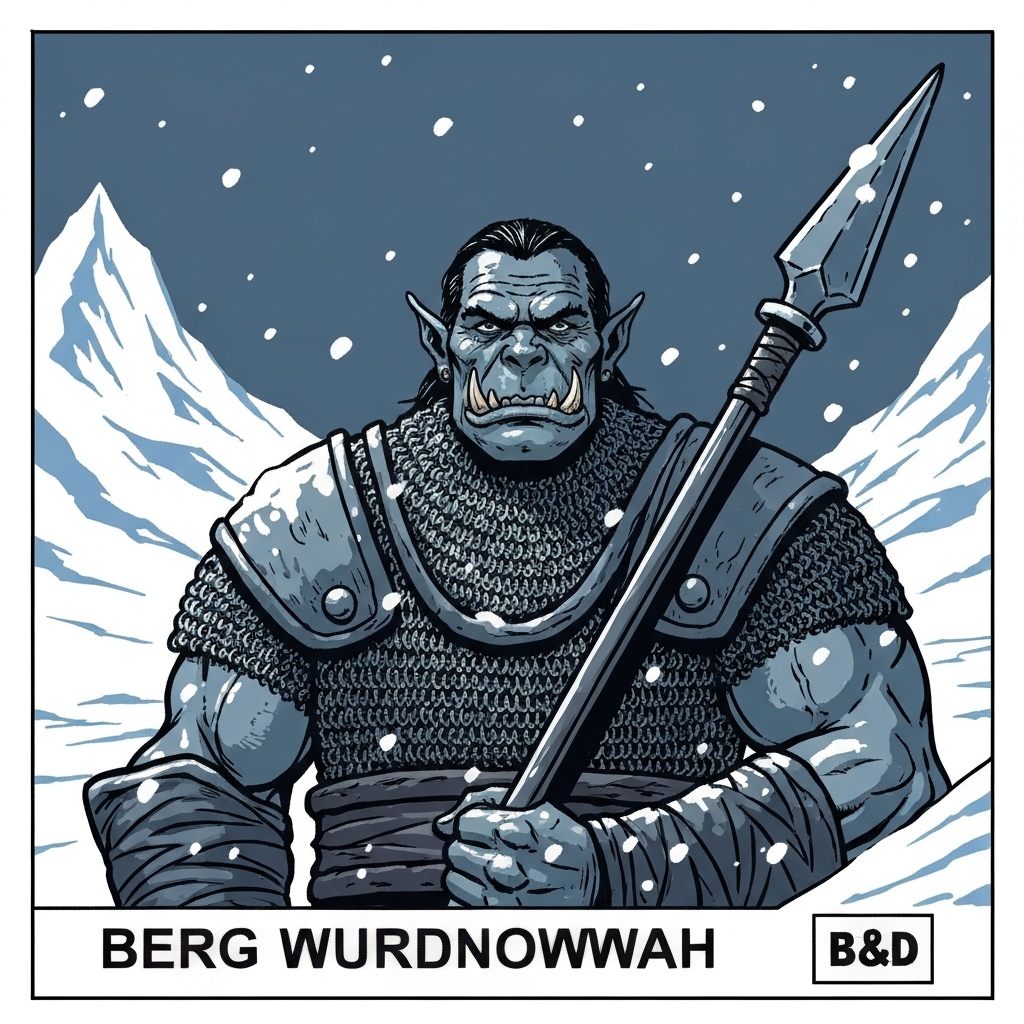
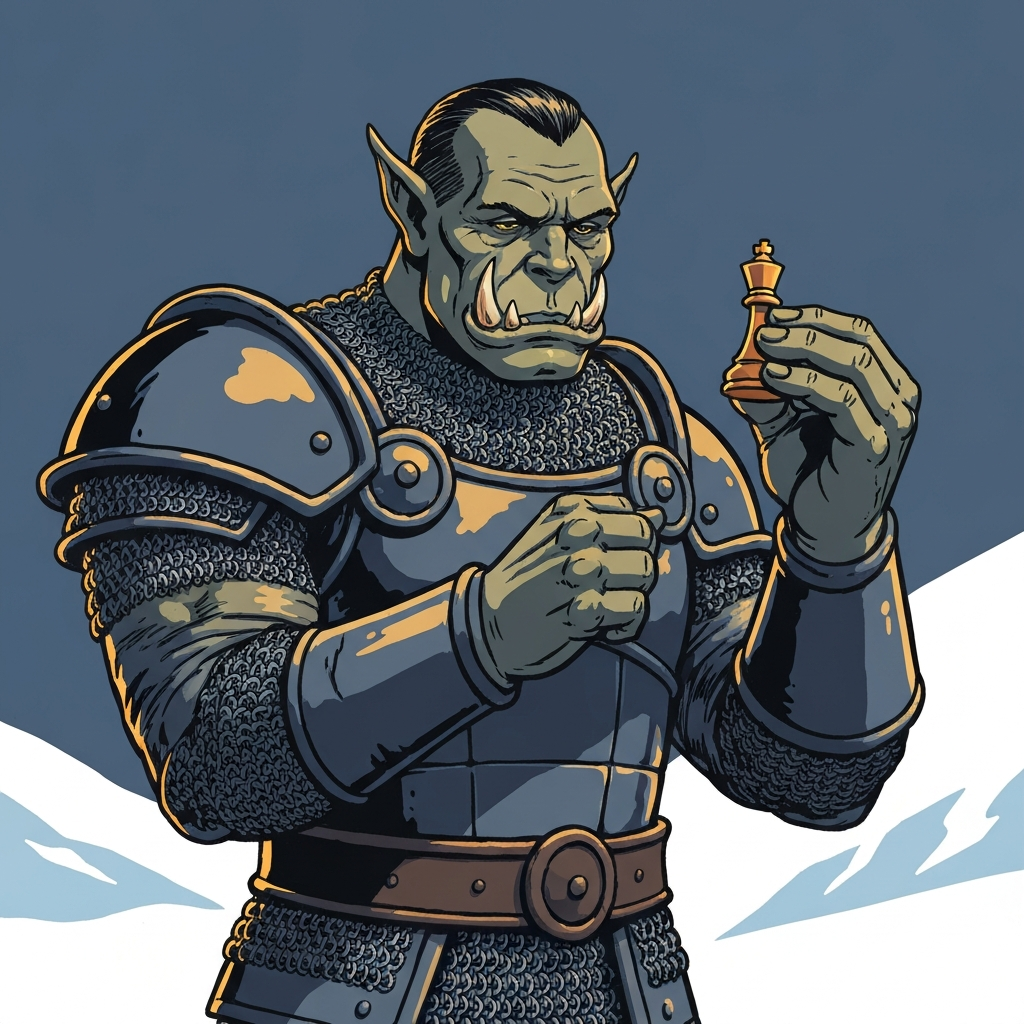
update character portraits and descriptions; add session 7 images
- Raydin: replaced generated portrait with player-provided image; added Description and Personality stubs
- Alina: new pulp-style generated portrait; trimmed spell-list from description
- Berg: new pulp-style portrait emphasizing strategic intelligence; rewrote description to remove stat-block language
- River: tightened description, removed mechanical phrasing
- Session 2026-06-06: add artwork images

diff --git a/rpg/icewind-dale/public/characters/river.md b/rpg/icewind-dale/public/characters/river.md
@@ -15,7 +15,7 @@ image: /rpg/icewind-dale/public/characters/images/river.png
 
 ## Description
 
-A male Tabaxi with spotted fur, a climbing speed equal to walking, and Darkvision. Speaks Common, Dwarvish, Sylvan, and Thieves' Cant — an unusual language spread that hints at a varied history. Background as a Mulhorandi Tomb Raider suggests experience with traps, ancient places, and things best left undisturbed. Currently transitioning from Swashbuckler Rogue into Monk — the character is finding a more deliberate, disciplined approach as the campaign progresses. Carries 1,000 ball bearings, which have not yet been deployed but will eventually matter at exactly the wrong moment.
+Spotted Tabaxi, Mulhorandi Tomb Raider by background — comfortable with traps, ancient places, and things best left undisturbed. Speaks Common, Dwarvish, Sylvan, and Thieves' Cant, an unusual spread that tells its own story. Started out a Swashbuckler and is finding his way toward something more disciplined as the campaign goes on. Carries 1,000 ball bearings, which have not yet been deployed but will eventually matter at exactly the wrong moment.
 
 ## Personality
 

diff --git a/rpg/icewind-dale/public/characters/berg.md b/rpg/icewind-dale/public/characters/berg.md
@@ -15,7 +15,7 @@ image: /rpg/icewind-dale/public/characters/images/berg.png
 
 ## Description
 
-Orc fighter with AC 22, 40 HP, and Darkvision 180 feet. Speaks Common, Orcish, and Giant. Proficient with smith's tools and dragonchess. Battle Master subclass means his fighting style is fundamentally about enabling the people around him — Distracting Strike gives allies advantage, Bait and Switch repositions allies out of danger, Rally gives them temporary HP. He also has Interception, which lets him use his reaction to reduce damage dealt to a nearby ally. The orc in the armor who plays dragonchess is not the character most people expect.
+Orc fighter, heavily armored and hard to move past. Speaks Common, Orcish, and Giant; proficient with smith's tools and dragonchess. His entire fighting style is built around the people beside him — Distracting Strike opens enemies up for allies, Bait and Switch pulls someone out of harm's way, Rally puts HP back in the fight, and Interception lets him eat a hit meant for someone else. He has a dragonchess set in his kit and knows how to use it.
 
 ## Personality
 

diff --git a/rpg/icewind-dale/public/characters/alina.md b/rpg/icewind-dale/public/characters/alina.md
@@ -15,7 +15,7 @@ image: /rpg/icewind-dale/public/characters/images/alina.png
 
 ## Description
 
-Tiefling wizard with purple-tinged skin, small curved horns, and a cartographer's eye for the world. Speaks Common, Draconic, and Goblin. Carries three costumes, a flute, and a bullseye lantern — someone who moves through the world in many shapes and prefers to see clearly in the dark. Her Chthonic Legacy grants resistance to Necrotic damage and access to Thaumaturgy; she also draws on Druid magic through her Magic Initiate feat, keeping Guidance, Healing Word, and Spare the Dying in her back pocket.
+Tiefling wizard with purple-tinged skin, small curved horns, and a cartographer's eye for the world. Speaks Common, Draconic, and Goblin. Carries three costumes, a flute, and a bullseye lantern — someone who moves through the world in many shapes and prefers to see clearly in the dark. Her Chthonic Legacy brings Necrotic resistance and Thaumaturgy. She's also dipped into Druid magic — enough to stabilize an ally or light a path in the dark when direct evocation isn't the answer.
 
 ## Personality
 

diff --git a/rpg/icewind-dale/public/characters/raydin.md b/rpg/icewind-dale/public/characters/raydin.md
@@ -9,6 +9,14 @@ dnd_beyond: https://www.dndbeyond.com/characters/166648821
 image: /rpg/icewind-dale/public/characters/images/raydin.png
 ---
 
+## Description
+
+Aasimar sorcerer with a Hexblade warlock pact layered on top — the celestial heritage shows as a faint halo and something luminous behind the eyes. Clockwork Soul subclass means his magic is tuned to cosmic order: suppressing chaos, smoothing outcomes, imposing pattern on a disordered world. The Hexblade pact manifests as a deck of playing cards charged with eldritch energy. Dark swept-back hair, rectangular glasses, a long coat over a waistcoat with a pocket watch. Someone who takes time seriously.
+
+## Personality
+
+The playing cards and the Clockwork Soul sit in deliberate tension — he manages probability for a living and chooses to do it with a gambler's prop. Roguish and charming in a way that suggests he already knows how this hand ends.
+
 ## Appearances
 
 - **2026-06-06** — [Session 7 (June 6, 2026)](../sessions/2026-06-06) (*Dead Run*)
